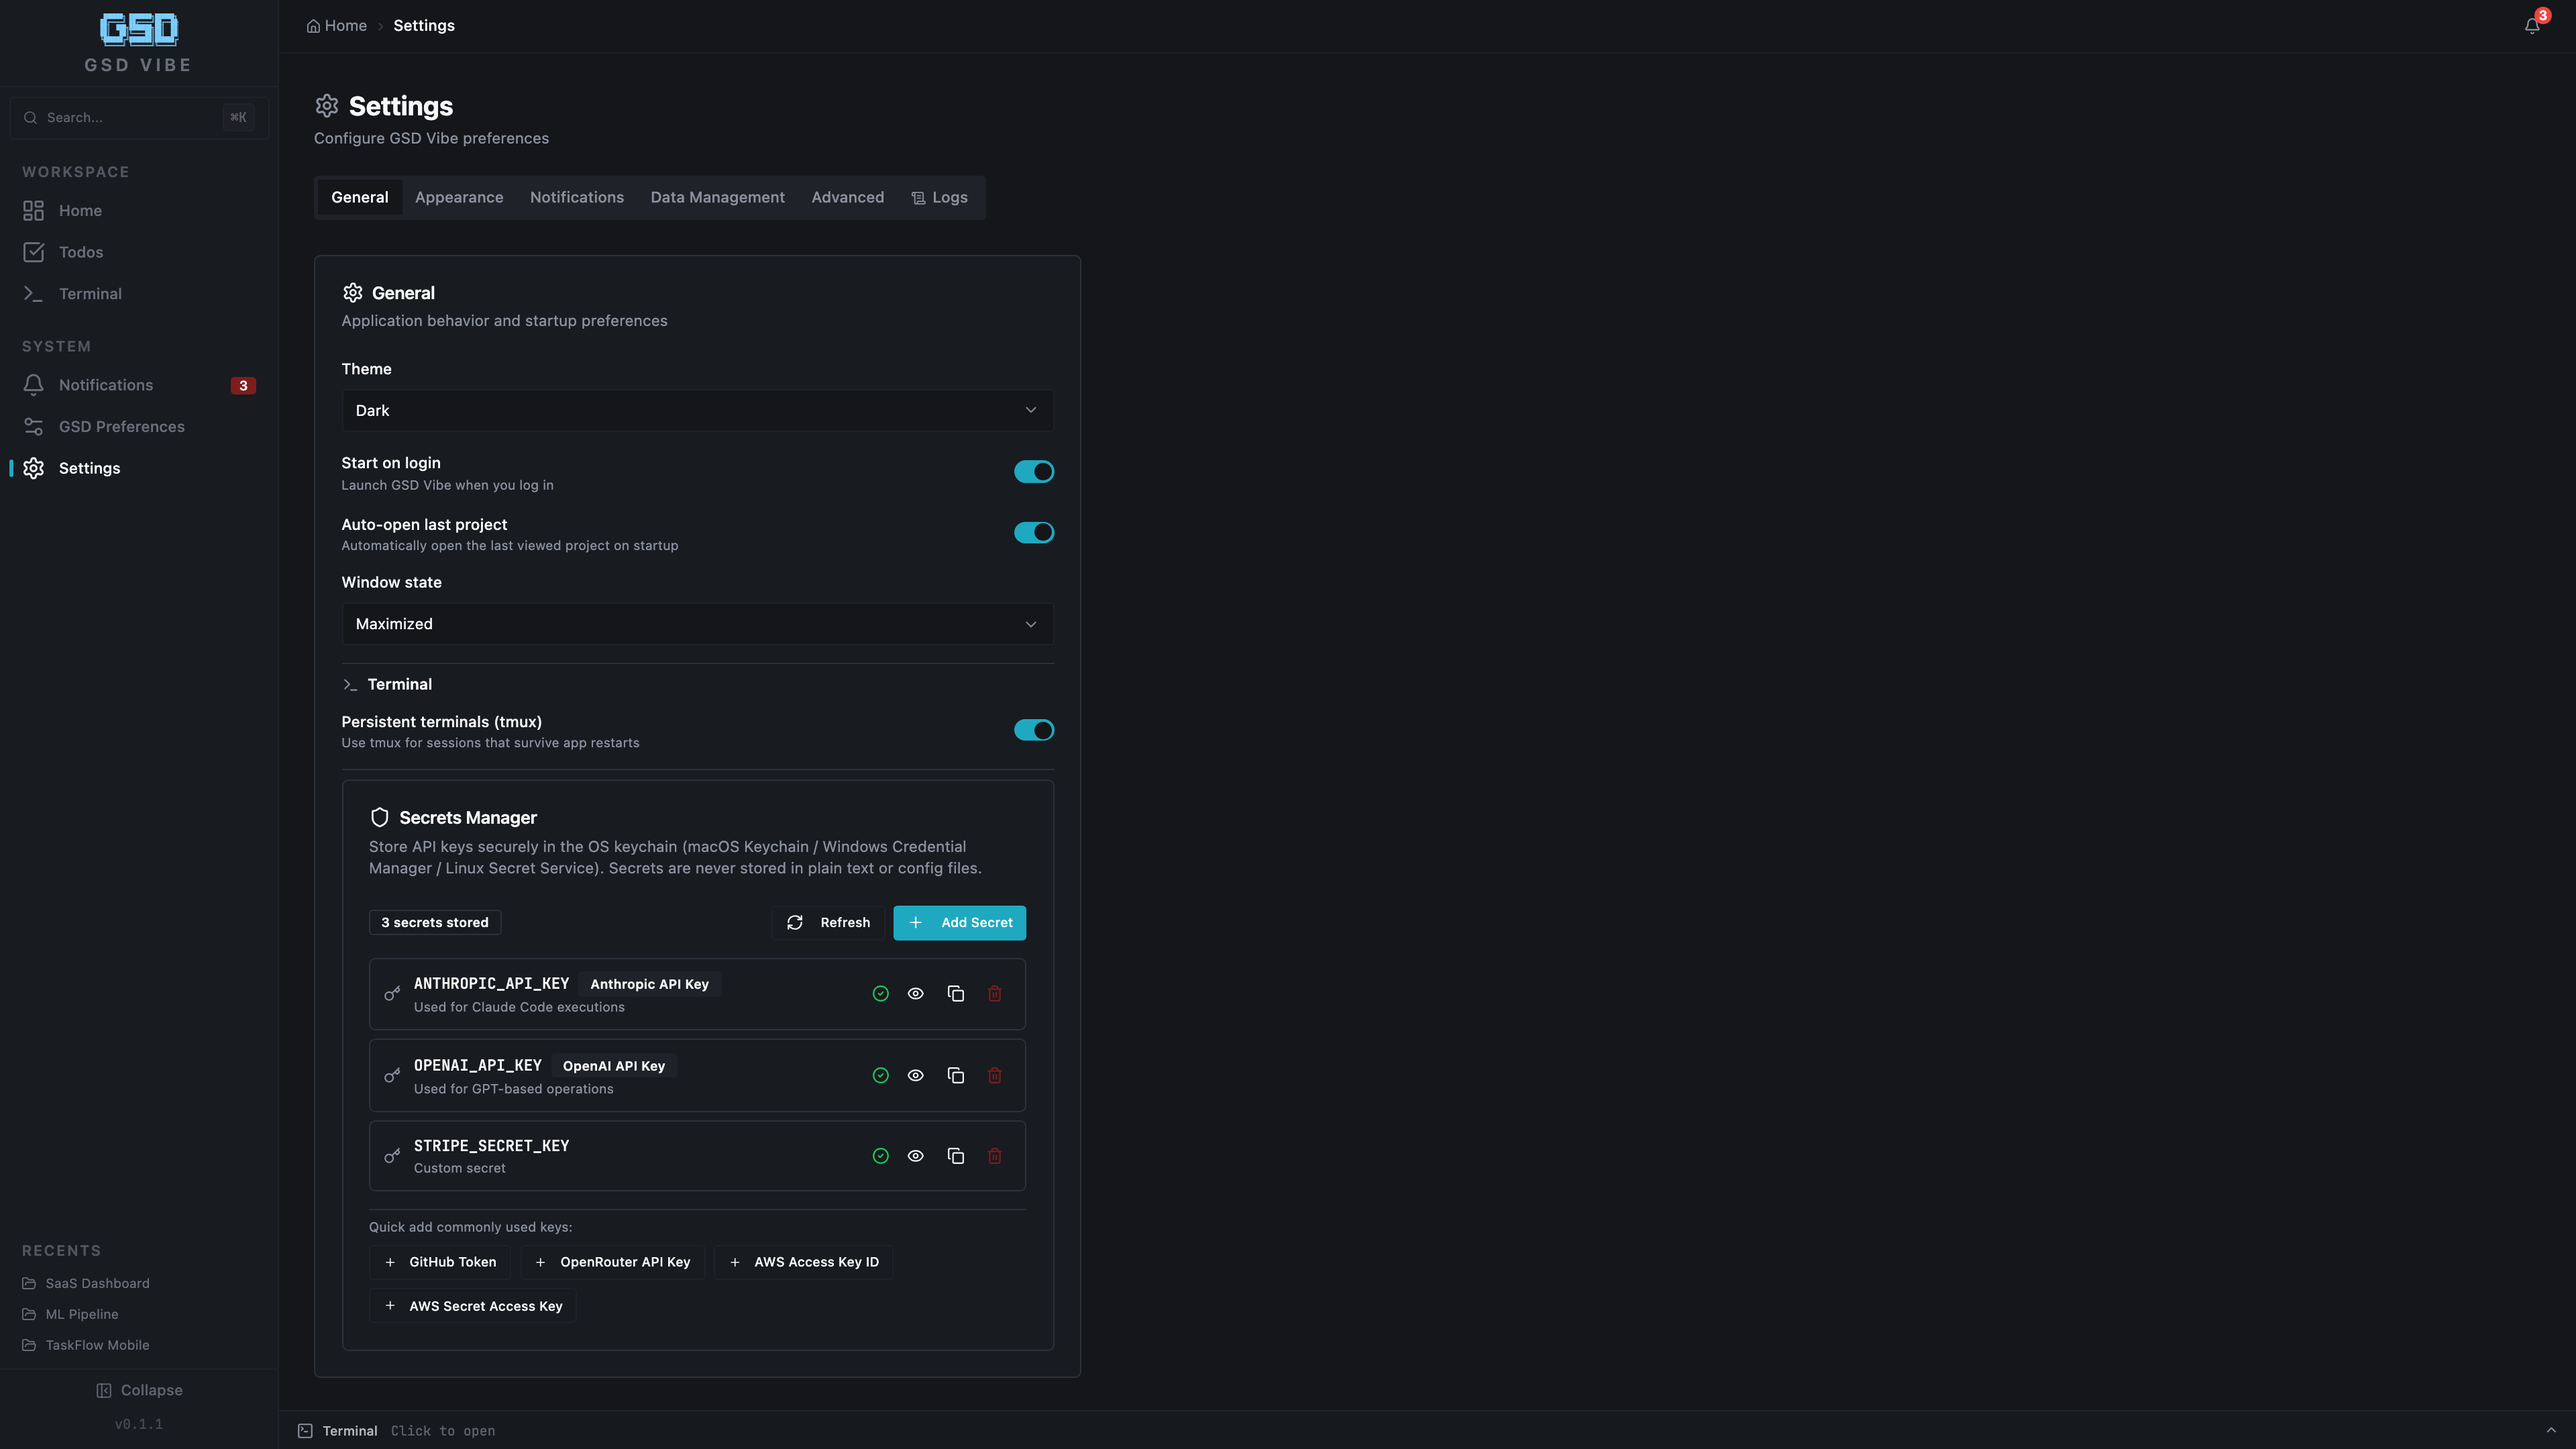
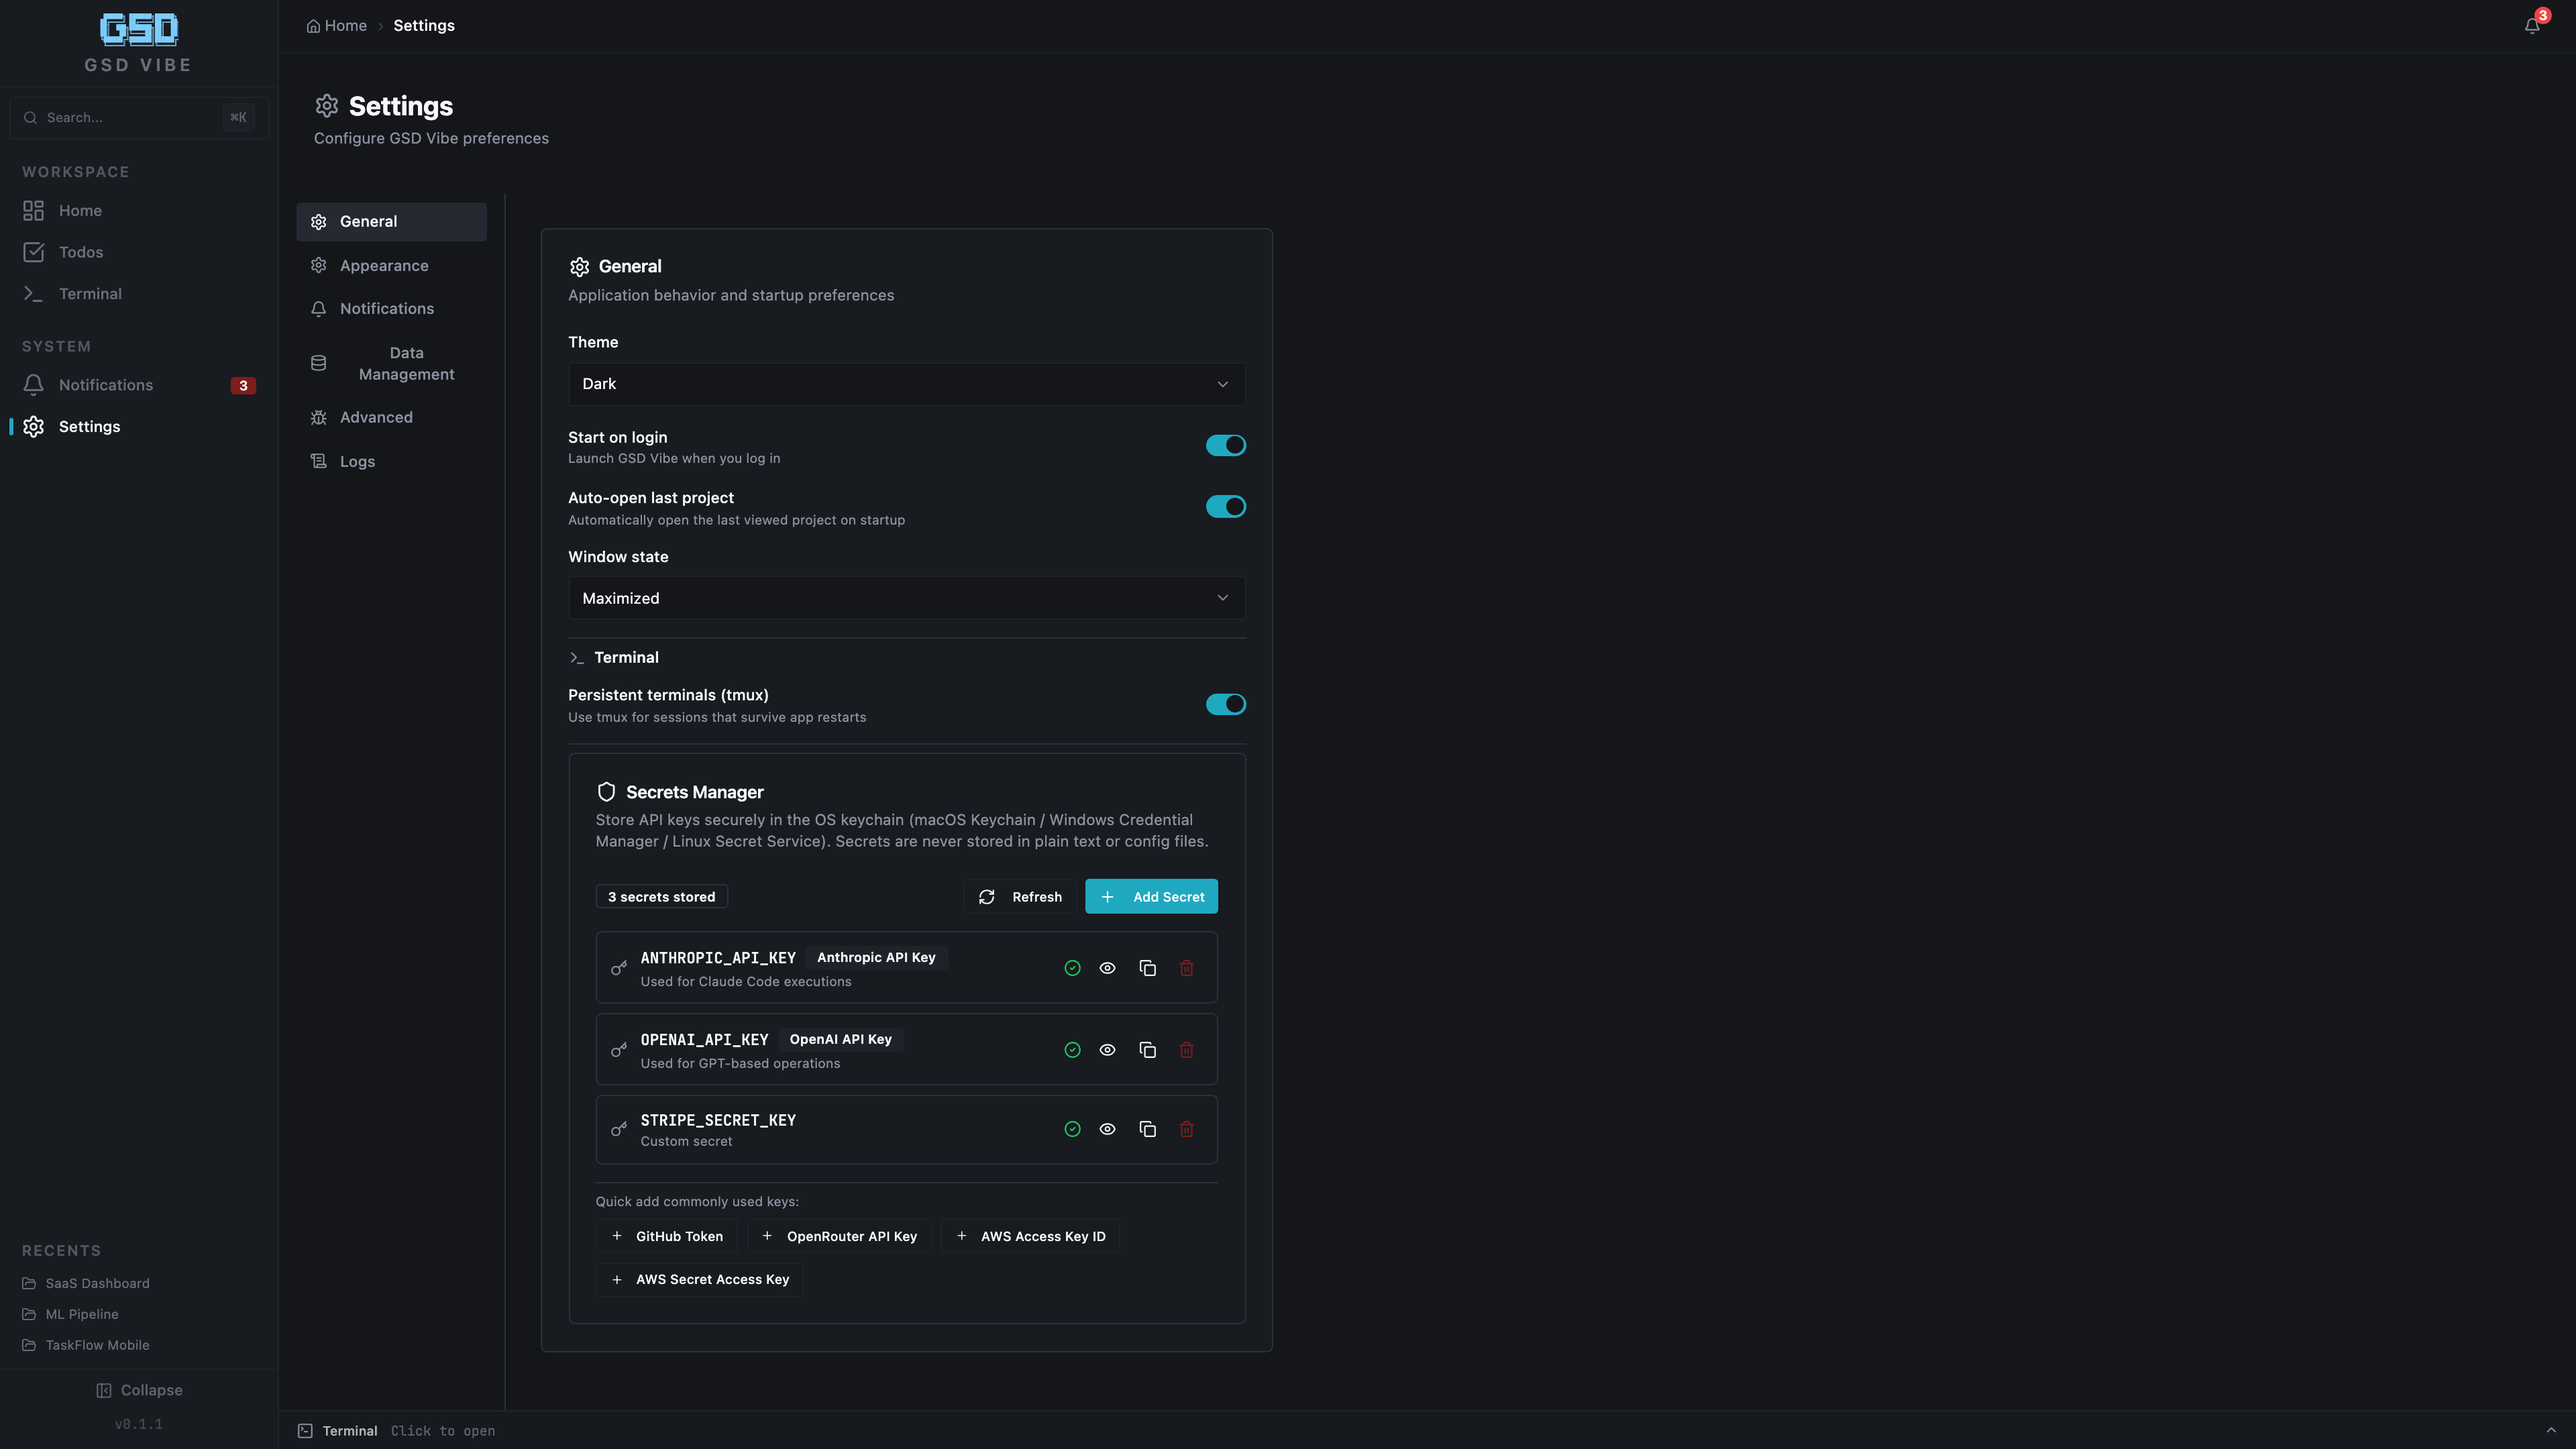
Redesign settings page with sidebar navigation layout
- Replace horizontal tabs with vertical sidebar nav (General, Appearance, Notifications, Data, Advanced, Logs)
- Remove max-w-3xl constraint to use full available width
- Fix React hooks ordering (useState before early return)
- Retake settings screenshot with new layout

diff --git a/src/pages/settings.tsx b/src/pages/settings.tsx
@@ -4,7 +4,7 @@
 import { useState, useEffect } from "react";
 import { Button } from "@/components/ui/button";
 import { Card, CardContent, CardHeader, CardTitle, CardDescription } from "@/components/ui/card";
-import { Tabs, TabsContent, TabsList, TabsTrigger } from "@/components/ui/tabs";
+// Tabs imports removed — using sidebar layout instead
 import { ExportDataDialog, ClearDataDialog, ThemeCustomization, SecretsManager } from "@/components/settings";
 import { Switch } from "@/components/ui/switch";
 import { Select, SelectContent, SelectItem, SelectTrigger, SelectValue } from "@/components/ui/select";
@@ -28,6 +28,7 @@ export function SettingsPage() {
   const [showExportDialog, setShowExportDialog] = useState(false);
   const [showClearDialog, setShowClearDialog] = useState(false);
   const [showResetConfirm, setShowResetConfirm] = useState(false);
+  const [activeSection, setActiveSection] = useState("general");
 
   /* eslint-disable react-hooks/set-state-in-effect */
   useEffect(() => {
@@ -64,37 +65,59 @@ export function SettingsPage() {
     );
   }
 
-  return (
-    <div className="h-full overflow-auto p-8 max-w-3xl">
-      {/* Header */}
-      <PageHeader
-        title="Settings"
-        description="Configure GSD Vibe preferences"
-        icon={<SettingsIcon className="h-6 w-6 text-muted-foreground" />}
-        actions={
-          hasChanges ? (
-            <Button onClick={() => void handleSave()} disabled={updateSettings.isPending}>
-              {updateSettings.isPending ? "Saving..." : "Save Changes"}
-            </Button>
-          ) : undefined
-        }
-      />
+  const sections = [
+    { id: "general", label: "General", icon: SettingsIcon },
+    { id: "appearance", label: "Appearance", icon: SettingsIcon },
+    { id: "notifications", label: "Notifications", icon: Bell },
+    { id: "data", label: "Data Management", icon: Database },
+    { id: "advanced", label: "Advanced", icon: Bug },
+    { id: "logs", label: "Logs", icon: ScrollText },
+  ];
 
-      <Tabs defaultValue="general" className="mt-6">
-        <TabsList className="mb-6">
-          <TabsTrigger value="general">General</TabsTrigger>
-          <TabsTrigger value="appearance">Appearance</TabsTrigger>
-          <TabsTrigger value="notifications">Notifications</TabsTrigger>
-          <TabsTrigger value="data">Data Management</TabsTrigger>
-          <TabsTrigger value="advanced">Advanced</TabsTrigger>
-          <TabsTrigger value="logs">
-            <ScrollText className="h-3.5 w-3.5 mr-1.5" />
-            Logs
-          </TabsTrigger>
-        </TabsList>
+  return (
+    <div className="h-full flex flex-col">
+      {/* Header */}
+      <div className="px-8 pt-8 pb-4">
+        <PageHeader
+          title="Settings"
+          description="Configure GSD Vibe preferences"
+          icon={<SettingsIcon className="h-6 w-6 text-muted-foreground" />}
+          actions={
+            hasChanges ? (
+              <Button onClick={() => void handleSave()} disabled={updateSettings.isPending}>
+                {updateSettings.isPending ? "Saving..." : "Save Changes"}
+              </Button>
+            ) : undefined
+          }
+        />
+      </div>
+
+      <div className="flex-1 min-h-0 flex">
+        {/* Sidebar */}
+        <nav className="w-52 flex-shrink-0 border-r border-border px-4 py-2 space-y-1">
+          {sections.map(({ id, label, icon: Icon }) => (
+            <button
+              key={id}
+              onClick={() => setActiveSection(id)}
+              className={`w-full flex items-center gap-3 px-3 py-2 rounded-md text-sm font-medium transition-colors ${
+                activeSection === id
+                  ? "bg-accent text-accent-foreground"
+                  : "text-muted-foreground hover:text-foreground hover:bg-accent/50"
+              }`}
+            >
+              <Icon className="h-4 w-4" />
+              {label}
+            </button>
+          ))}
+        </nav>
+
+        {/* Content */}
+        <div className="flex-1 min-h-0 overflow-y-auto p-8">
+          <div className="max-w-2xl">
 
         {/* ── General ─────────────────────────────────────── */}
-        <TabsContent value="general" className="space-y-6">
+        {activeSection === "general" && (
+          <div className="space-y-6">
           <Card>
             <CardHeader>
               <CardTitle className="flex items-center gap-2">
@@ -192,15 +215,19 @@ export function SettingsPage() {
               </div>
             </CardContent>
           </Card>
-        </TabsContent>
+        </div>
+        )}
 
         {/* ── Appearance ──────────────────────────────────── */}
-        <TabsContent value="appearance" className="space-y-6">
+        {activeSection === "appearance" && (
+          <div className="space-y-6">
           <ThemeCustomization />
-        </TabsContent>
+        </div>
+        )}
 
         {/* ── Notifications ───────────────────────────────── */}
-        <TabsContent value="notifications" className="space-y-6">
+        {activeSection === "notifications" && (
+          <div className="space-y-6">
           <Card>
             <CardHeader>
               <CardTitle className="flex items-center gap-2">
@@ -256,10 +283,12 @@ export function SettingsPage() {
               )}
             </CardContent>
           </Card>
-        </TabsContent>
+        </div>
+        )}
 
         {/* ── Data Management ─────────────────────────────── */}
-        <TabsContent value="data" className="space-y-6">
+        {activeSection === "data" && (
+          <div className="space-y-6">
           <Card>
             <CardHeader>
               <CardTitle className="flex items-center gap-2">
@@ -327,10 +356,12 @@ export function SettingsPage() {
               </div>
             </CardContent>
           </Card>
-        </TabsContent>
+        </div>
+        )}
 
         {/* ── Advanced ────────────────────────────────────── */}
-        <TabsContent value="advanced" className="space-y-6">
+        {activeSection === "advanced" && (
+          <div className="space-y-6">
           <Card>
             <CardHeader>
               <CardTitle className="flex items-center gap-2">
@@ -355,13 +386,19 @@ export function SettingsPage() {
               </div>
             </CardContent>
           </Card>
-        </TabsContent>
+        </div>
+        )}
 
         {/* ── Logs ────────────────────────────────────────── */}
-        <TabsContent value="logs" className="space-y-6">
-          <LogsContent />
-        </TabsContent>
-      </Tabs>
+        {activeSection === "logs" && (
+          <div className="space-y-6">
+            <LogsContent />
+          </div>
+        )}
+
+          </div>
+        </div>
+      </div>
 
       {/* Dialogs */}
       <ExportDataDialog
